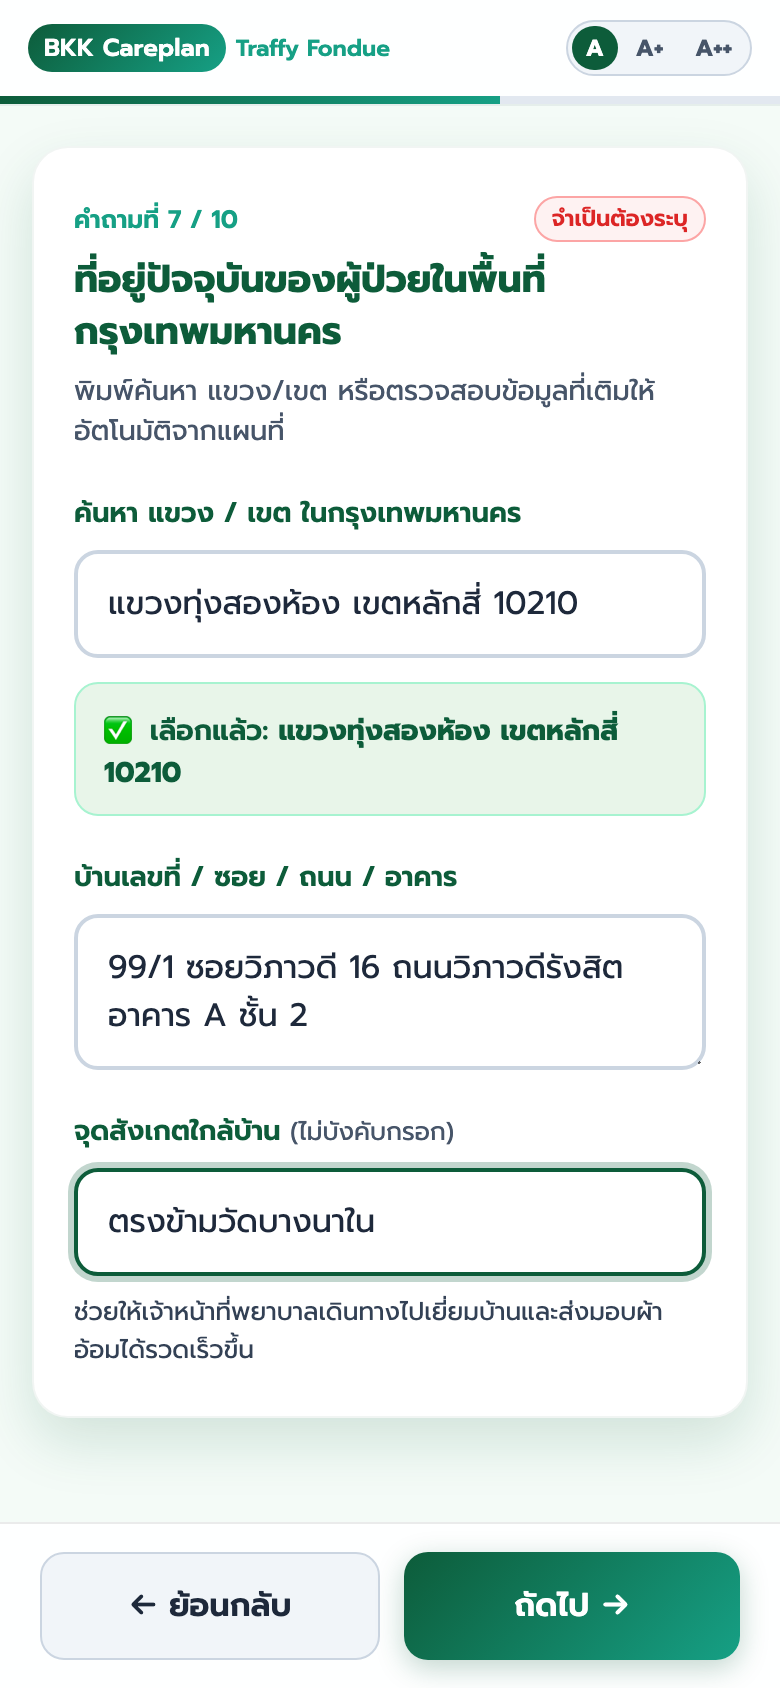
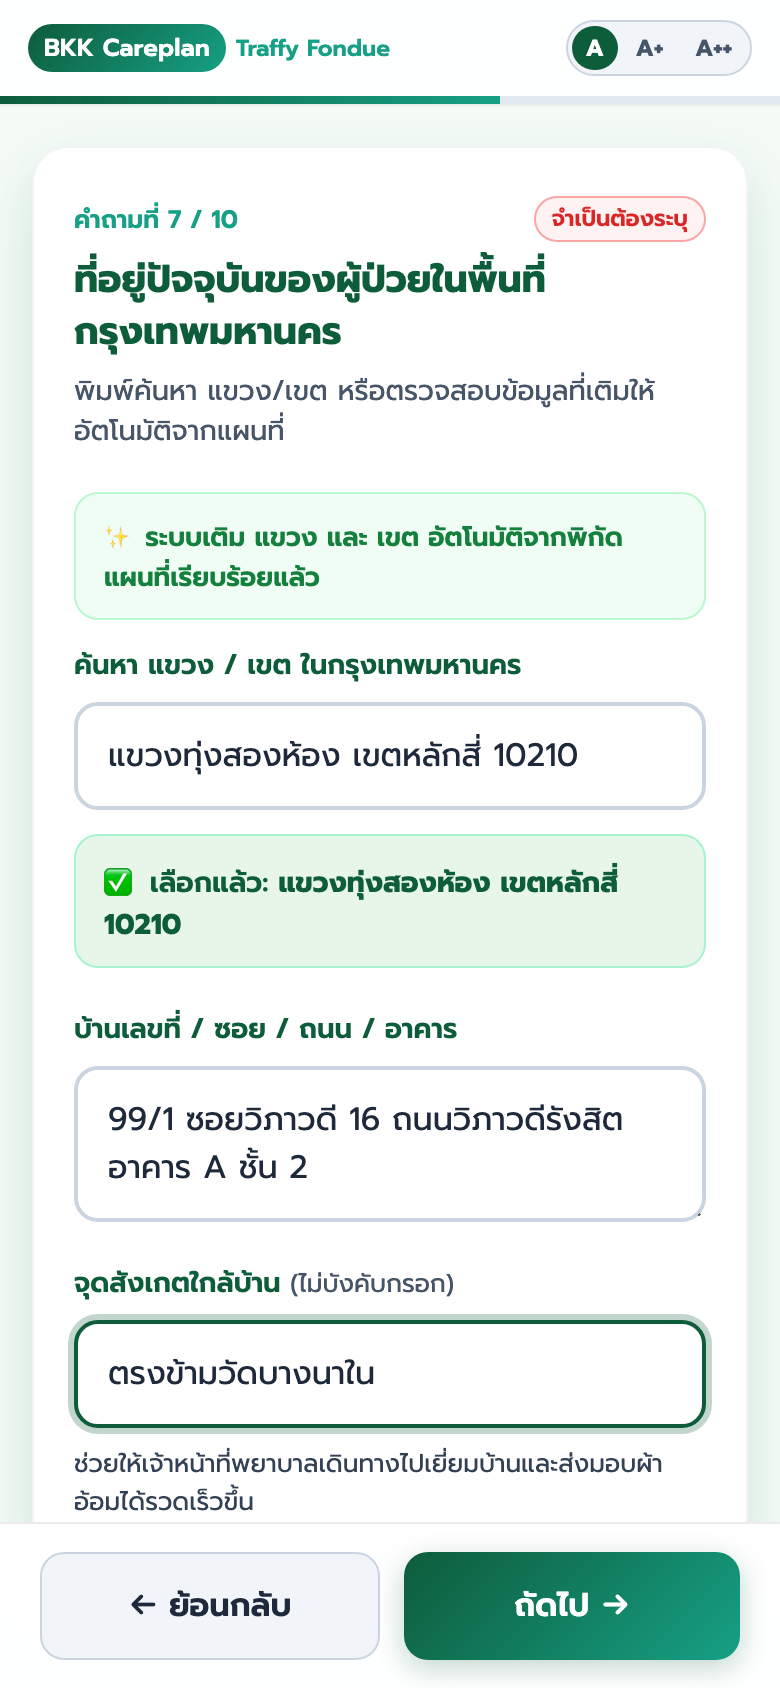
feat(payload): add org_id field and update README with JSON payload spec for Middleware Developer

Changed region(s): [[0.0308, 0.2773, 0.9538, 0.8934], [0.8923, 0.3081, 0.9231, 0.3697]]

diff --git a/app.js b/app.js
@@ -881,6 +881,7 @@ document.addEventListener('DOMContentLoaded', () => {
     const payload = {
       request_timestamp: new Date().toISOString(),
       source: "bkk_careplan_traffy_fondue_webview",
+      org_id: formData.org_id || "",
       applicant_type: formData.applicant_type,
       patient_info: {
         fullname: formData.patient_name,

diff --git a/README.md b/README.md
@@ -217,6 +217,79 @@ bkk-careplan/
 
 ---
 
-## 🤝 การเชื่อมต่อระบบ (Integration & Payload)
+## 🤝 การเชื่อมต่อระบบและการส่งต่อข้อมูล (Integration & Middleware Contract)
 
-ระบบส่งออกข้อมูลการยื่นเรื่องในรูปแบบ **JSON Payload** ที่รองรับการเชื่อมต่อ API กับ Traffy Fondue และระบบบริหารจัดการของกรุงเทพมหานคร (BKK Careplan Engine)
+ระบบส่งออกข้อมูลการยื่นเรื่องในรูปแบบ **JSON Payload** ที่รองรับการเชื่อมต่อ API กับ Middleware Backend ก่อนยิงเข้า Google Cloud Pub/Sub (`traffy-cloud` / `line_2019_to_fondue`) ต่อไป โดยมีการระบุตัวแปร `org_id` สำหรับระบุรหัสหน่วยงานปลายทางไว้ล่วงหน้า
+
+---
+
+## 🔌 ตัวอย่าง JSON Payload สำหรับ Middleware Developer
+
+```json
+{
+  "request_timestamp": "2026-08-07T10:15:00.000Z",
+  "source": "bkk_careplan_traffy_fondue_webview",
+  "org_id": "BKK.HEALTH_CENTER.01",
+  "applicant_type": "caregiver",
+  "patient_info": {
+    "fullname": "นายสมชาย ใจดี",
+    "id_card": "1100200345670"
+  },
+  "contact_info": {
+    "phone": "0812345678",
+    "district": "หลักสี่",
+    "subdistrict": "ทุ่งสองห้อง",
+    "zipcode": "10210",
+    "address_detail": "99/1 ซอยวิภาวดี 16 ถนนวิภาวดีรังสิต อาคาร A ชั้น 2",
+    "landmark": "ตรงข้ามวัดบางนาใน",
+    "full_address": "99/1 ซอยวิภาวดี 16 ถนนวิภาวดีรังสิต อาคาร A ชั้น 2 (จุดสังเกต: ตรงข้ามวัดบางนาใน) แขวงทุ่งสองห้อง เขตหลักสี่ กรุงเทพมหานคร 10210",
+    "coordinates": {
+      "latitude": 13.8821,
+      "longitude": 100.5632
+    }
+  },
+  "medical_conditions": {
+    "condition": "incontinence",
+    "is_bedridden": false,
+    "has_incontinence": true,
+    "medical_cert_count": 1
+  },
+  "caregiver_info": {
+    "fullname": "นางสาวสมหญิง ใจดี (บุตรสาว)",
+    "phone": "0898765432"
+  },
+  "attachments_count": 2,
+  "line_profile": {
+    "user_id": "U1234567890abcdef1234567890abcdef",
+    "display_name": "Somchai LINE",
+    "picture_url": "https://profile.line-scdn.net/sample_picture_hash"
+  }
+}
+```
+
+### 📝 คำอธิบายฟิลด์ใน JSON Payload (Data Field Definitions)
+
+| ฟิลด์ (Field) | ประเภท (Type) | คำอธิบาย (Description) |
+| :--- | :---: | :--- |
+| `request_timestamp` | String (ISO8601) | วันเวลาที่ยื่นคำร้องแบบ UTC |
+| `source` | String | ระบบต้นทางของคำร้อง |
+| `org_id` | String / Array | รหัสหน่วยงานปลายทาง หรือ รหัส ศบส. ที่รับผิดชอบ |
+| `applicant_type` | String | สถานะผู้ยื่นเรื่อง (`"patient"` = ผู้ป่วยยื่นเอง, `"caregiver"` = ญาติยื่นแทน) |
+| `patient_info.fullname` | String | ชื่อ-นามสกุล ของผู้ป่วย |
+| `patient_info.id_card` | String | เลขบัตรประจำตัวประชาชน 13 หลัก (เฉพาะตัวเลข) |
+| `contact_info.phone` | String | เบอร์โทรศัพท์สำหรับติดต่อนัดหมาย |
+| `contact_info.district` | String | ชื่อเขตในกรุงเทพมหานคร |
+| `contact_info.subdistrict` | String | ชื่อแขวงในกรุงเทพมหานคร |
+| `contact_info.zipcode` | String | รหัสไปรษณีย์ |
+| `contact_info.address_detail` | String | บ้านเลขที่ ซอย ถนน อาคาร |
+| `contact_info.landmark` | String | จุดสังเกตใกล้บ้าน (ถ้ามี) |
+| `contact_info.full_address` | String | ที่อยู่ฉบับเต็มประกอบสำเร็จ |
+| `contact_info.coordinates` | Object | พิกัดละติจูดและลองจิจูดจากแผนที่ GPS |
+| `medical_conditions.condition` | String | สภาวะหลักของผู้ป่วย (`"bedridden"` = ติดเตียง, `"incontinence"` = กลั้นไม่ได้) |
+| `medical_conditions.is_bedridden` | Boolean | เป็นผู้ป่วยติดเตียงหรือไม่ |
+| `medical_conditions.has_incontinence` | Boolean | มีภาวะกลั้นปัสสาวะ/อุจจาระไม่ได้หรือไม่ |
+| `medical_conditions.medical_cert_count` | Number | จำนวนไฟล์ใบรับรองแพทย์ที่แนบมา |
+| `caregiver_info.fullname` | String | ชื่อ-นามสกุล ผู้ดูแล/ญาติผู้ติดต่อ |
+| `caregiver_info.phone` | String | เบอร์โทรศัพท์ของผู้ดูแล/ญาติ |
+| `attachments_count` | Number | จำนวนรูปถ่ายผู้ป่วย/สถานที่แนบประกอบ |
+| `line_profile` | Object / null | ข้อมูลโปรไฟล์ LINE LIFF (`user_id`, `display_name`, `picture_url`) |

diff --git a/okf/module_bkk_careplan.md b/okf/module_bkk_careplan.md
@@ -136,8 +136,9 @@ erDiagram
 
 ```json
 {
-  "request_timestamp": "2026-08-07T09:15:00+07:00",
+  "request_timestamp": "2026-08-07T10:15:00.000Z",
   "source": "bkk_careplan_traffy_fondue_webview",
+  "org_id": "BKK.HEALTH_CENTER.01",
   "applicant_type": "caregiver",
   "patient_info": {
     "fullname": "นายสมชาย ใจดี",
@@ -157,7 +158,8 @@ erDiagram
     }
   },
   "medical_conditions": {
-    "is_bedridden": true,
+    "condition": "incontinence",
+    "is_bedridden": false,
     "has_incontinence": true,
     "medical_cert_count": 1
   },
@@ -165,6 +167,11 @@ erDiagram
     "fullname": "นางสาวสมหญิง ใจดี (บุตรสาว)",
     "phone": "0898765432"
   },
-  "attachments_count": 1
+  "attachments_count": 1,
+  "line_profile": {
+    "user_id": "U1234567890abcdef1234567890abcdef",
+    "display_name": "Somchai LINE",
+    "picture_url": "https://profile.line-scdn.net/sample_picture_hash"
+  }
 }
 ```
